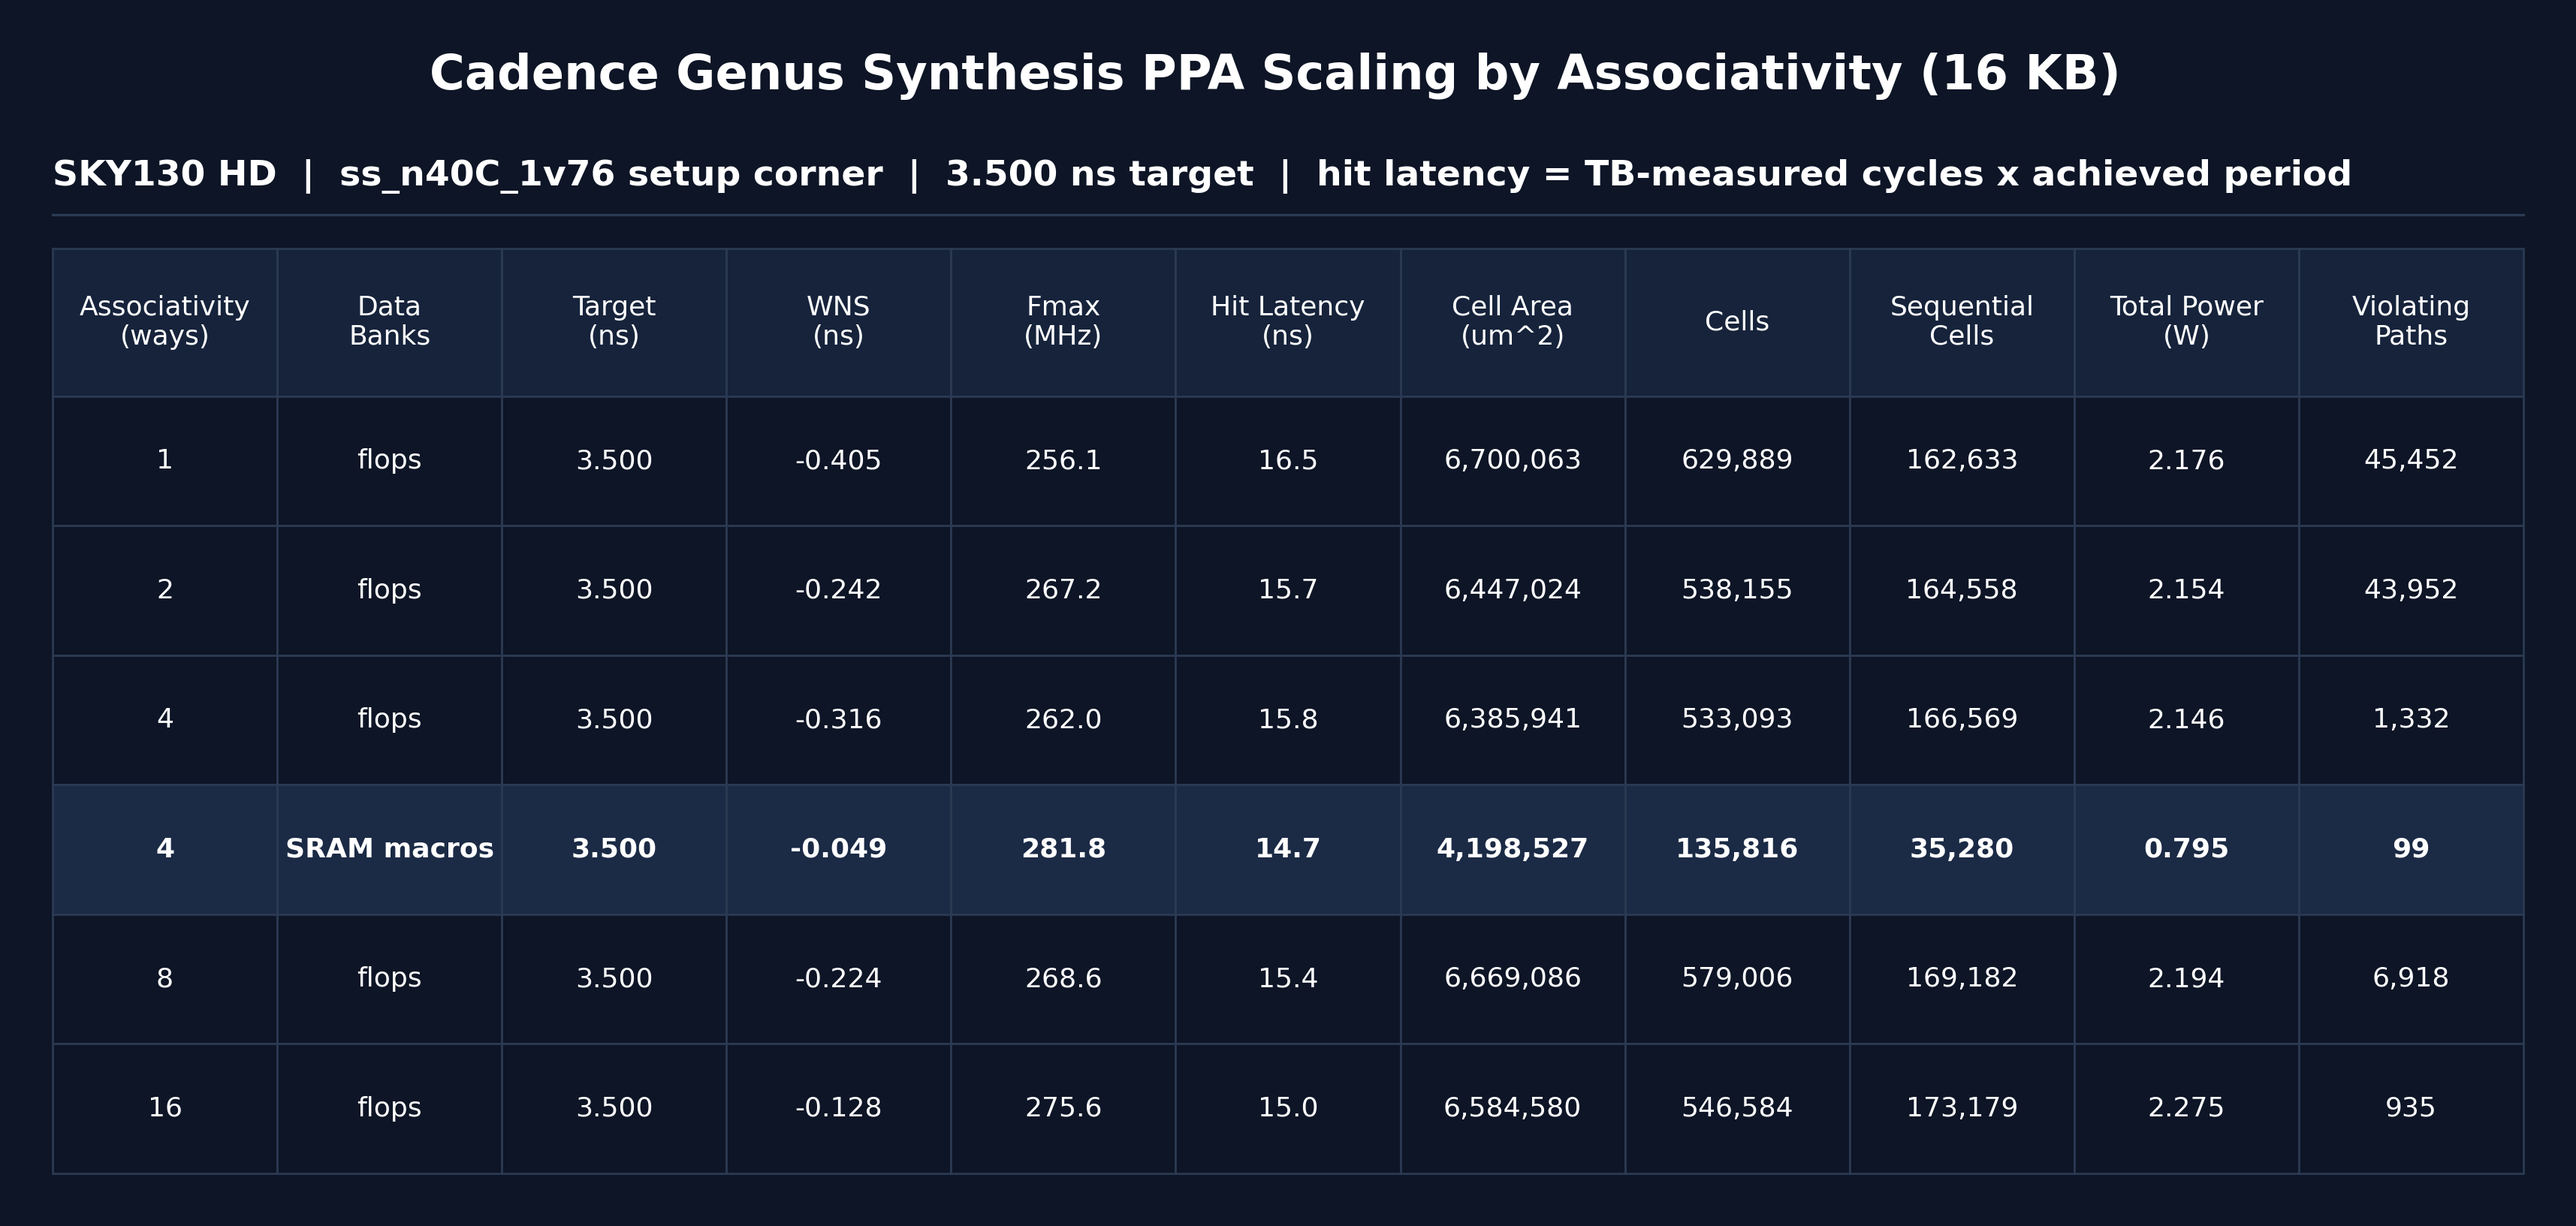
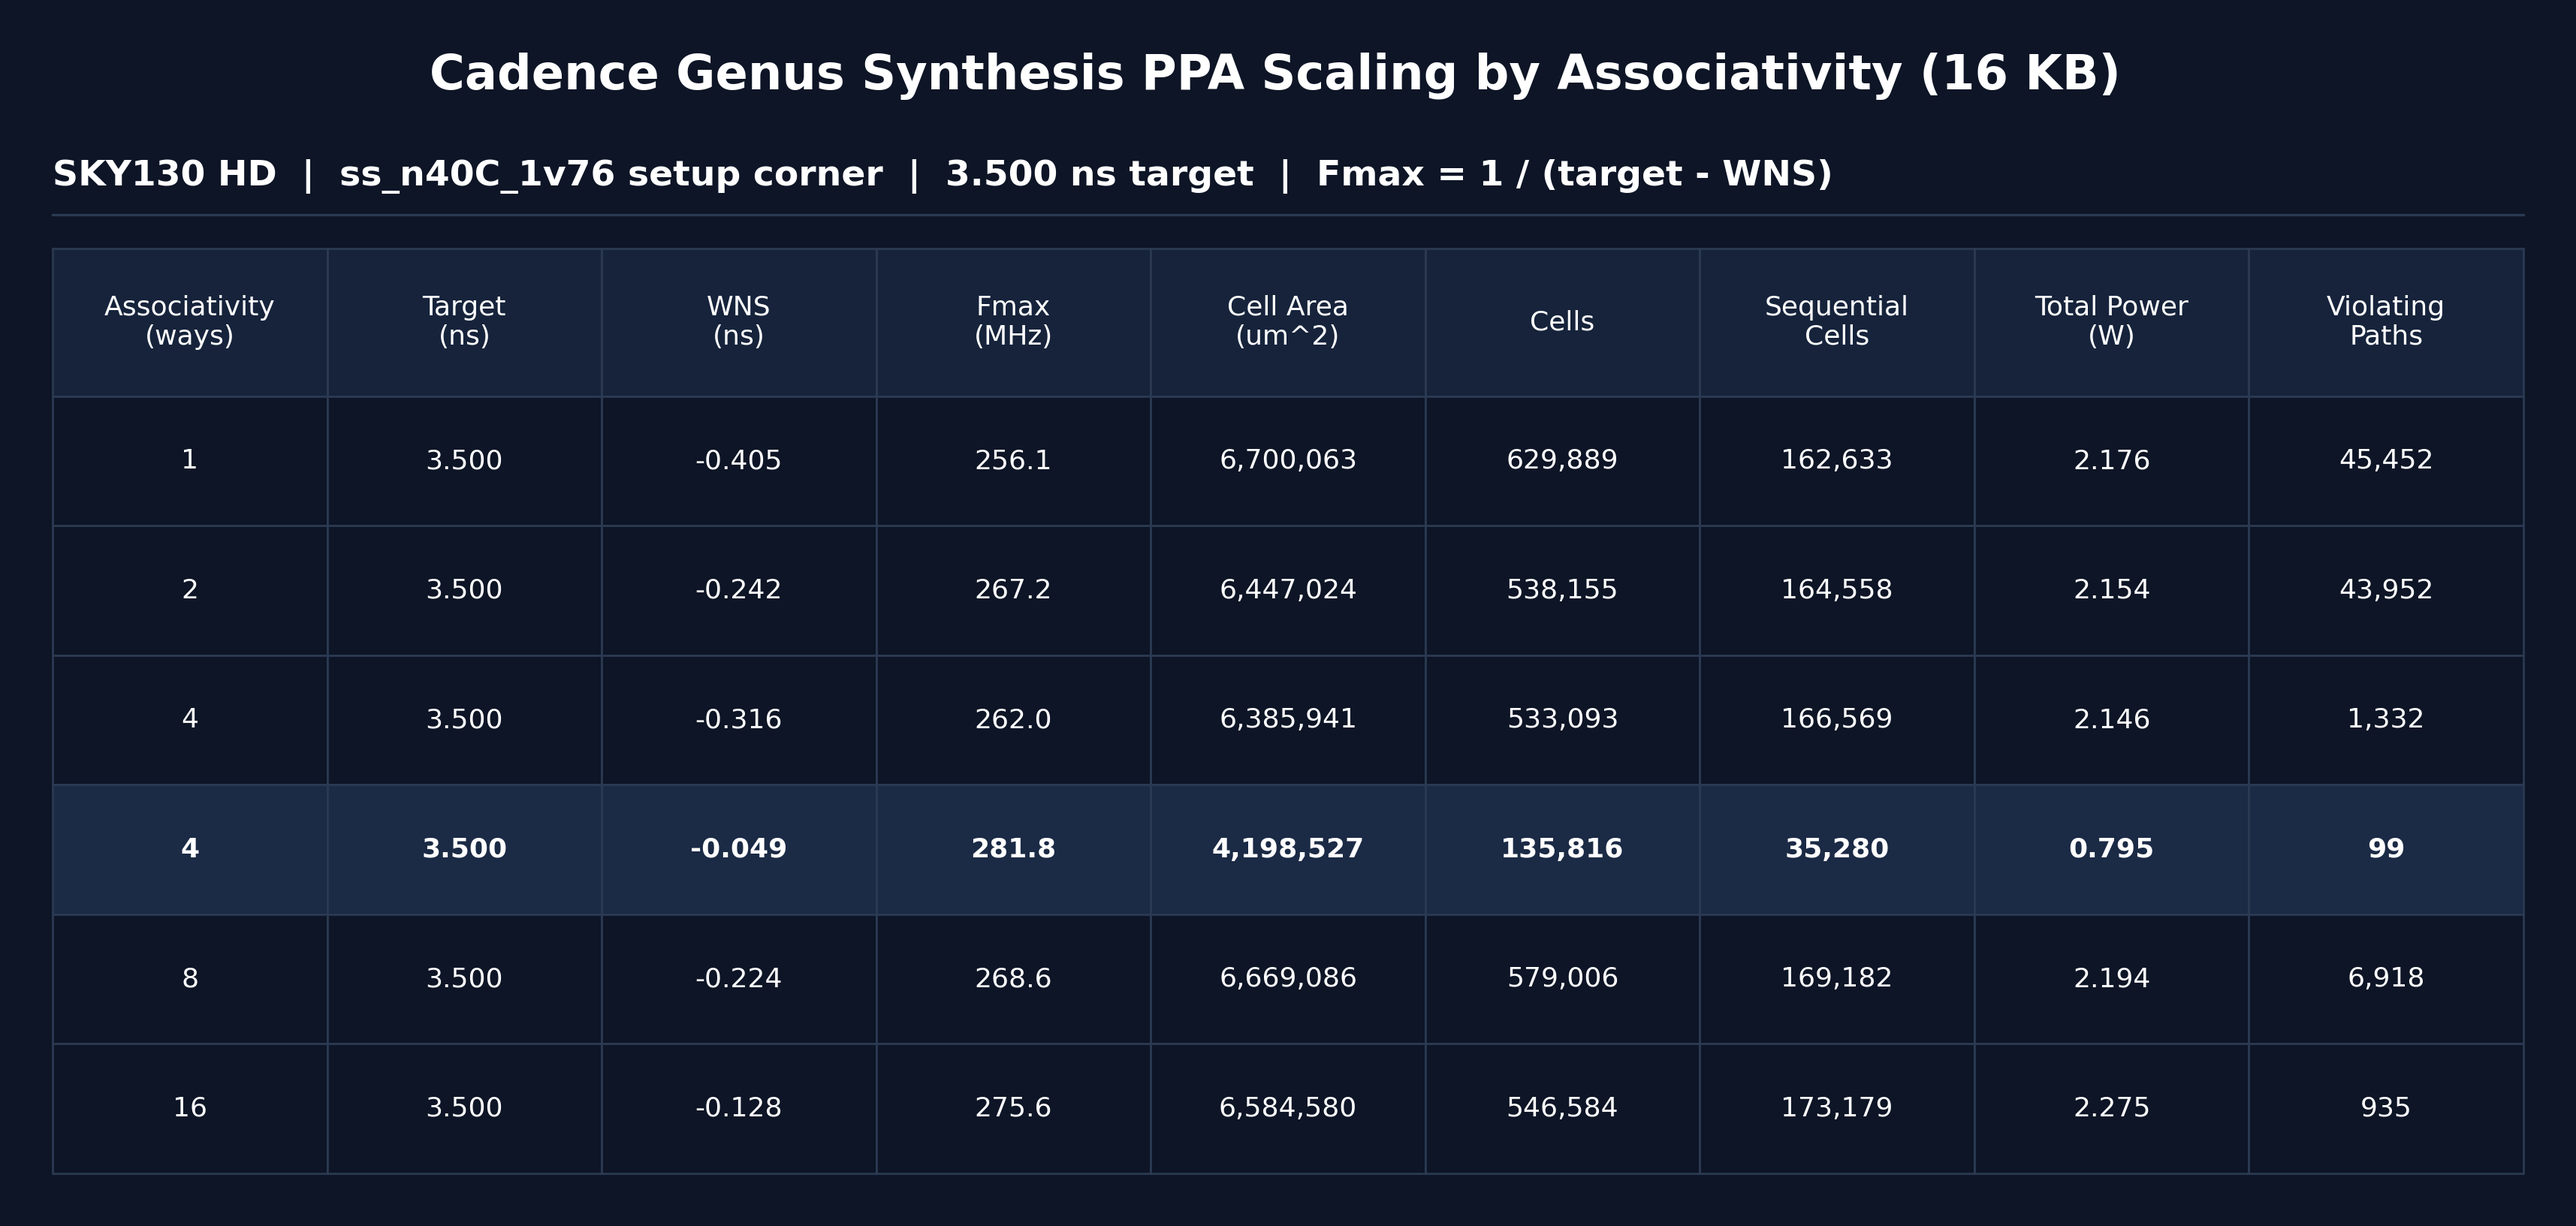
PPA chart: drop the data-banks and hit-latency columns
Claude-Session: https://claude.ai/code/session_013GB2gB1udYc1ALkX84Z6Vt

diff --git a/asic/collect_ppa.py b/asic/collect_ppa.py
@@ -337,12 +337,12 @@ def make_png(tool, rows, path, cache_kb):
     bg, fg, grid = "#0d1526", "#ffffff", "#2b3a52"
     hdr, best_bg = "#16233b", "#1b2a45"
 
-    cols = ["Associativity\n(ways)", "Data\nBanks", "Target\n(ns)", "WNS\n(ns)", "Fmax\n(MHz)",
-            "Hit Latency\n(ns)", "Cell Area\n(um^2)", "Cells", "Sequential\nCells",
+    cols = ["Associativity\n(ways)", "Target\n(ns)", "WNS\n(ns)", "Fmax\n(MHz)",
+            "Cell Area\n(um^2)", "Cells", "Sequential\nCells",
             "Total Power\n(W)", "Violating\nPaths"]
-    cells = [[f"{r['assoc']}", banks_label(r),
+    cells = [[f"{r['assoc']}",
               fmt(r.get("period"), ".3f"), fmt(r.get("slack"), ".3f"),
-              fmt(r.get("fmax"), ".1f"), fmt(hit_latency_ns(r), ".1f"),
+              fmt(r.get("fmax"), ".1f"),
               fmt(r.get("area"), ",.0f"),
               fmt(r.get("cells"), ","), fmt(r.get("seq"), ","),
               fmt(r.get("total_power"), ".3f"), fmt(r.get("violating"), ",")]
@@ -367,7 +367,7 @@ def make_png(tool, rows, path, cache_kb):
     corners = " + ".join(sorted({r.get("corner") or "?" for r in rows}))
     fig.text(0.035, 0.875,
              f"SKY130 HD  |  {corners} setup corner{target}"
-             "  |  hit latency = TB-measured cycles x achieved period",
+             "  |  Fmax = 1 / (target - WNS)",
              ha="left", va="top", color=fg, fontsize=17, fontweight="bold")
     fig.add_artist(plt.Line2D([0.035, 0.975], [0.828, 0.828], color=grid, lw=1.2))
 
